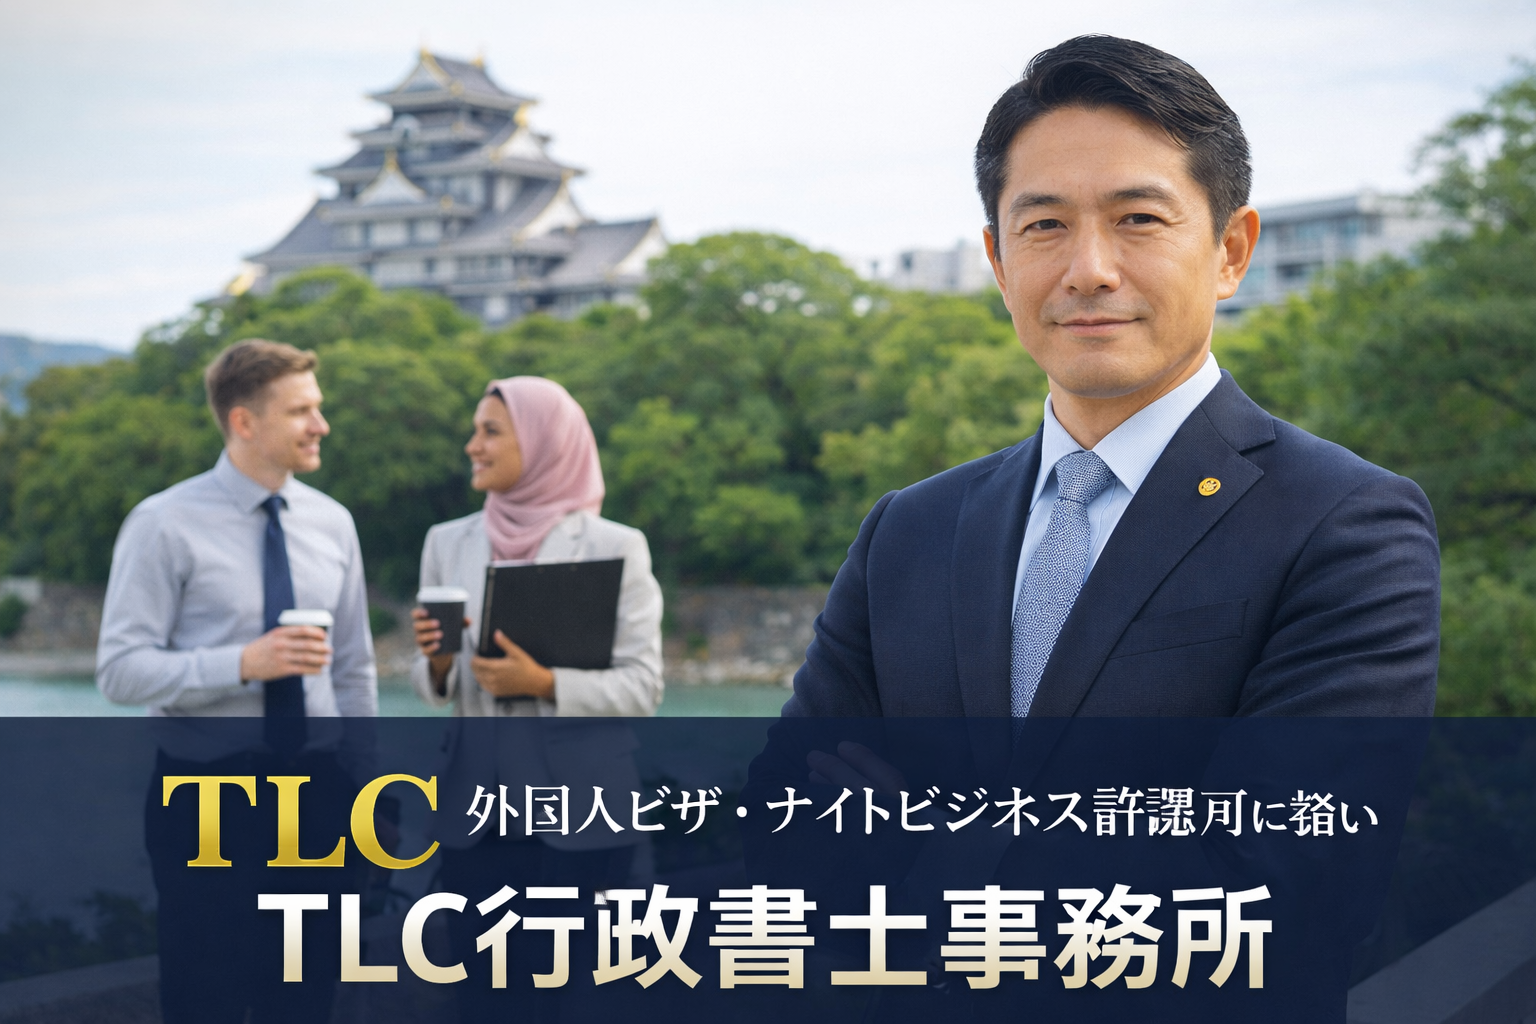
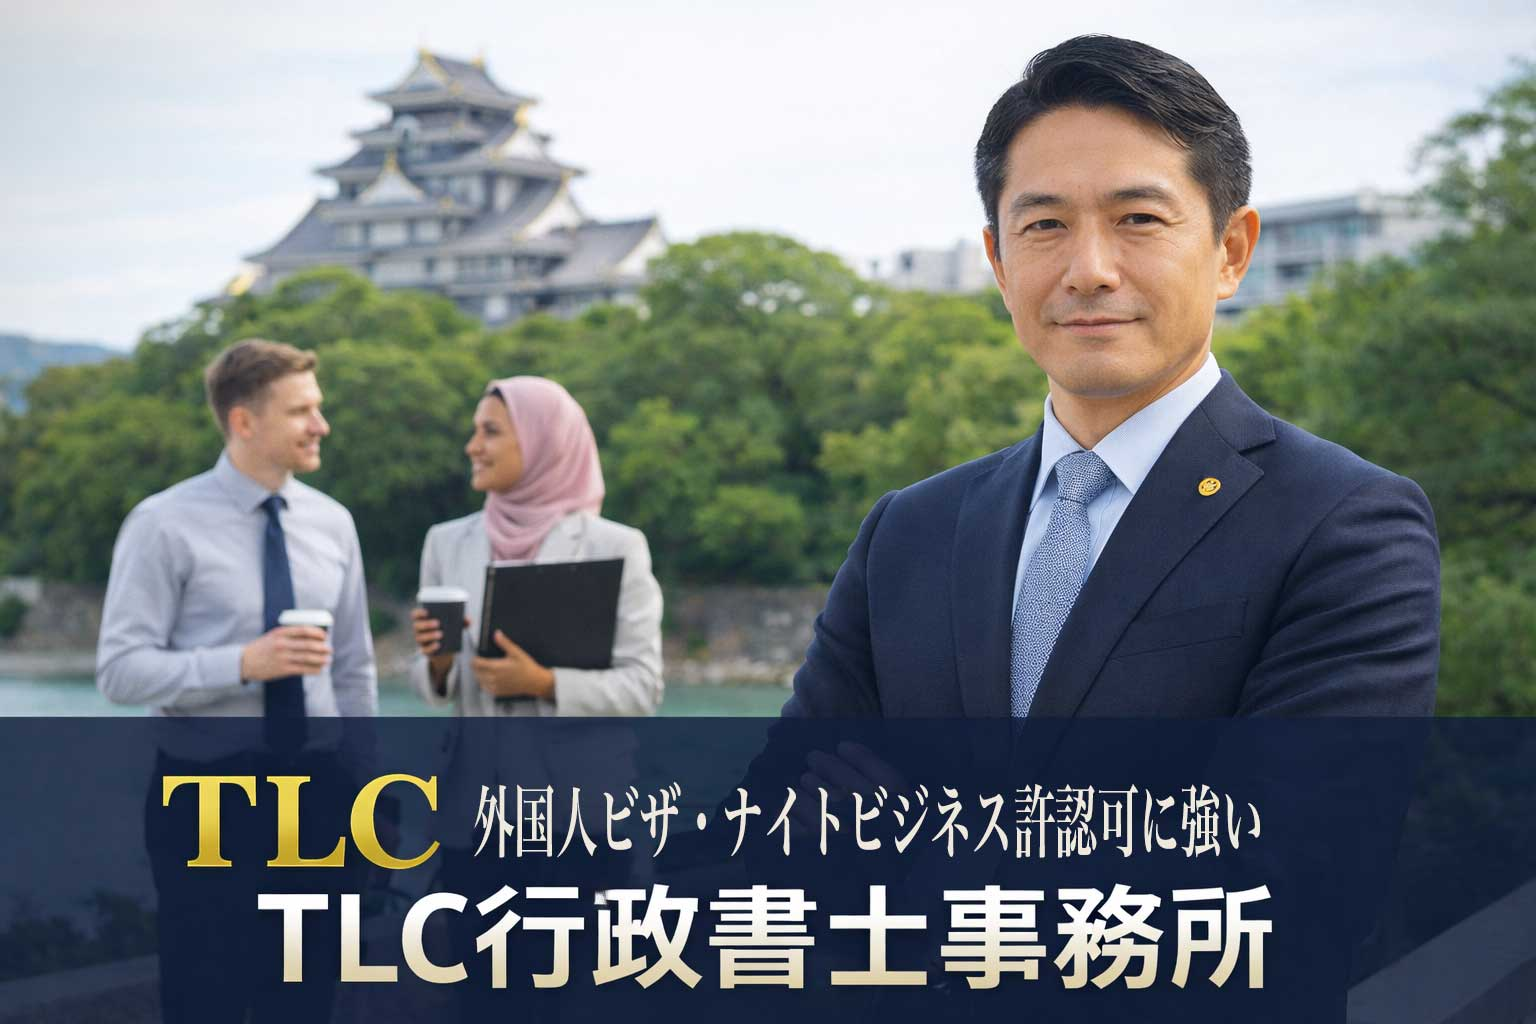
TOP文字大きさ調整

Changed region(s): [[0.2812, 0.75, 0.9062, 0.8438], [0.2188, 0.8125, 0.25, 0.8438]]

diff --git a/assets/css/style.css b/assets/css/style.css
@@ -320,15 +320,15 @@ ol {
 }
 
 .hero {
-  padding: 48px 0 32px;
+  padding: 36px 0 24px;
 }
 
 .hero-visual-main {
   position: relative;
   overflow: hidden;
-  min-height: 680px;
-  border-radius: 34px;
-  box-shadow: 0 26px 70px rgba(10, 37, 72, 0.24);
+  min-height: 560px;
+  border-radius: 32px;
+  box-shadow: 0 22px 48px rgba(10, 37, 72, 0.16);
   background: #0c1830;
 }
 
@@ -343,46 +343,71 @@ ol {
   width: 100%;
   height: 100%;
   object-fit: cover;
-  object-position: center center;
+  object-position: center 32%;
 }
 
 .hero-overlay {
   background:
-    linear-gradient(90deg, rgba(8, 19, 39, 0.92) 0%, rgba(8, 19, 39, 0.78) 34%, rgba(8, 19, 39, 0.48) 58%, rgba(8, 19, 39, 0.24) 100%),
-    linear-gradient(180deg, rgba(14, 26, 52, 0.12) 0%, rgba(14, 26, 52, 0.22) 100%);
+    linear-gradient(90deg, rgba(8, 19, 39, 0.48) 0%, rgba(8, 19, 39, 0.30) 30%, rgba(8, 19, 39, 0.12) 56%, rgba(8, 19, 39, 0.04) 100%),
+    linear-gradient(180deg, rgba(14, 26, 52, 0.02) 0%, rgba(14, 26, 52, 0.10) 100%);
 }
 
 .hero-content {
   z-index: 1;
   display: flex;
   flex-direction: column;
-  justify-content: center;
-  width: min(680px, calc(100% - 72px));
-  padding: 64px 0 64px 56px;
+  justify-content: flex-end;
+  width: min(470px, calc(100% - 108px));
+  padding: 48px 0 46px 48px;
 }
 
 .hero-content .eyebrow {
   width: fit-content;
+  margin-bottom: 14px;
+  border: 1px solid rgba(255, 255, 255, 0.14);
+  background: rgba(8, 19, 39, 0.14);
+  color: rgba(255, 255, 255, 0.9);
+  box-shadow: 0 6px 14px rgba(8, 19, 39, 0.08);
 }
 
 .hero-content h1 {
-  max-width: 12ch;
-  margin-bottom: 20px;
+  max-width: 11.5ch;
+  margin-bottom: 14px;
   color: #fff;
-  font-size: clamp(2.6rem, 5vw, 4.8rem);
-  line-height: 1.1;
-  text-shadow: 0 10px 24px rgba(8, 19, 39, 0.35);
+  font-size: clamp(1.85rem, 3vw, 2.95rem);
+  line-height: 1.26;
+  letter-spacing: 0.01em;
+  text-shadow: 0 6px 16px rgba(8, 19, 39, 0.18);
 }
 
 .hero-content .hero-lead {
-  max-width: 580px;
-  color: rgba(255, 255, 255, 0.92);
-  font-size: 1.08rem;
-  text-shadow: 0 6px 18px rgba(8, 19, 39, 0.28);
+  max-width: 28em;
+  margin: 0;
+  color: rgba(255, 255, 255, 0.9);
+  font-size: 0.94rem;
+  line-height: 1.78;
+  text-shadow: 0 4px 10px rgba(8, 19, 39, 0.14);
 }
 
 .hero-content .hero-actions {
-  margin-top: 30px;
+  margin-top: 20px;
+  gap: 10px;
+}
+
+.hero-content .btn {
+  min-height: 44px;
+  padding: 0 17px;
+  font-size: 0.88rem;
+  box-shadow: none;
+}
+
+.hero-content .btn-primary {
+  box-shadow: 0 10px 24px rgba(232, 169, 58, 0.22);
+}
+
+.hero-content .btn-secondary {
+  background: rgba(255, 255, 255, 0.08);
+  border-color: rgba(255, 255, 255, 0.22);
 }
 
 .hero-grid {
@@ -876,12 +901,12 @@ ol {
 
 @media (max-width: 1024px) {
   .hero-visual-main {
-    min-height: 620px;
+    min-height: 500px;
   }
 
   .hero-content {
-    width: min(620px, calc(100% - 56px));
-    padding-left: 40px;
+    width: min(430px, calc(100% - 72px));
+    padding: 34px 0 34px 34px;
   }
 
   .hero-grid,
@@ -905,34 +930,41 @@ ol {
 
 @media (max-width: 820px) {
   .hero-visual-main {
-    min-height: 560px;
-    border-radius: 26px;
+    min-height: 470px;
+    border-radius: 24px;
   }
 
   .hero-media img {
-    object-position: 66% center;
+    object-position: 74% 28%;
   }
 
   .hero-overlay {
     background:
-      linear-gradient(180deg, rgba(8, 19, 39, 0.22) 0%, rgba(8, 19, 39, 0.42) 32%, rgba(8, 19, 39, 0.82) 100%),
-      linear-gradient(90deg, rgba(8, 19, 39, 0.60) 0%, rgba(8, 19, 39, 0.18) 100%);
+      linear-gradient(180deg, rgba(8, 19, 39, 0.08) 0%, rgba(8, 19, 39, 0.18) 36%, rgba(8, 19, 39, 0.58) 100%),
+      linear-gradient(90deg, rgba(8, 19, 39, 0.28) 0%, rgba(8, 19, 39, 0.06) 100%);
   }
 
   .hero-content {
-    width: calc(100% - 36px);
+    width: calc(100% - 28px);
     justify-content: flex-end;
-    padding: 28px 0 28px 18px;
+    padding: 24px 0 24px 16px;
   }
 
   .hero-content h1 {
-    max-width: none;
-    font-size: clamp(2.2rem, 8vw, 3.3rem);
+    max-width: 12ch;
+    font-size: clamp(1.58rem, 5.7vw, 2.18rem);
+    line-height: 1.3;
   }
 
   .hero-content .hero-lead {
-    max-width: none;
-    font-size: 1rem;
+    max-width: 24em;
+    font-size: 0.89rem;
+    line-height: 1.72;
+  }
+
+  .hero-content .btn {
+    min-height: 46px;
+    font-size: 0.9rem;
   }
 
   .site-nav,
@@ -1008,11 +1040,11 @@ ol {
 
 @media (max-width: 560px) {
   .hero-visual-main {
-    min-height: 520px;
+    min-height: 430px;
   }
 
   .hero-media img {
-    object-position: 68% center;
+    object-position: 76% 24%;
   }
 
   .hero-content {
@@ -1021,11 +1053,27 @@ ol {
   }
 
   .hero-content .eyebrow {
-    font-size: 0.74rem;
+    font-size: 0.72rem;
+    margin-bottom: 12px;
   }
 
   .hero-content h1 {
-    font-size: clamp(1.9rem, 9vw, 2.6rem);
+    max-width: 11ch;
+    font-size: clamp(1.42rem, 7vw, 1.86rem);
+    margin-bottom: 10px;
+  }
+
+  .hero-content .hero-lead {
+    max-width: 22em;
+    font-size: 0.84rem;
+  }
+
+  .hero-content .hero-actions {
+    margin-top: 18px;
+  }
+
+  .hero-content .btn {
+    width: 100%;
   }
 
   .container {

diff --git a/index.html b/index.html
@@ -139,7 +139,7 @@
         radial-gradient(circle at top right, rgba(200,155,60,.16), transparent 28%),
         linear-gradient(135deg, #0d1323 0%, #141c32 50%, #101724 100%);
       color: var(--white);
-      padding: 72px 0 56px;
+      padding: 54px 0 40px;
     }
 
     .eyebrow {
@@ -158,19 +158,19 @@
     .hero-actions {
       display: flex;
       flex-wrap: wrap;
-      gap: 12px;
-      margin-top: 28px;
+      gap: 10px;
+      margin-top: 22px;
     }
 
     .btn {
       display: inline-flex;
       align-items: center;
       justify-content: center;
-      min-height: 50px;
-      padding: 0 20px;
+      min-height: 46px;
+      padding: 0 18px;
       border-radius: 999px;
       font-weight: 800;
-      font-size: 15px;
+      font-size: 14px;
       transition: .2s ease;
     }
 
@@ -484,6 +484,11 @@
         padding: 20px;
       }
 
+      .btn {
+        min-height: 48px;
+        font-size: 14px;
+      }
+
     }
   </style>
 </head>
@@ -515,11 +520,11 @@
           </div>
           <div class="hero-overlay"></div>
           <div class="hero-content">
-            <div class="eyebrow">岡山対応 / 外国人ビザ / 深夜営業届 / 風営法許可</div>
-            <h1>岡山で外国人ビザ・深夜営業届・風営法許可なら<br>TLC行政書士事務所</h1>
+            <div class="eyebrow">岡山対応 / スピード対応 / 相談しやすい</div>
+            <h1>岡山で外国人ビザ・深夜営業許可なら<br>TLC行政書士事務所</h1>
             <p class="hero-lead">
-              外国人の在留資格手続きから、深夜営業届、風営法許可、外国人雇用の実務相談まで。
-              何をすべきか分からない段階でも、手続きの全体像を整理しながら、わかりやすくサポートします。
+              在留資格、深夜営業届、風営法許可、外国人雇用まで
+              わかりやすく、スピード感を持って対応します。
             </p>
             <div class="hero-actions">
               <a href="#contact" class="btn btn-primary">無料相談はこちら</a>
